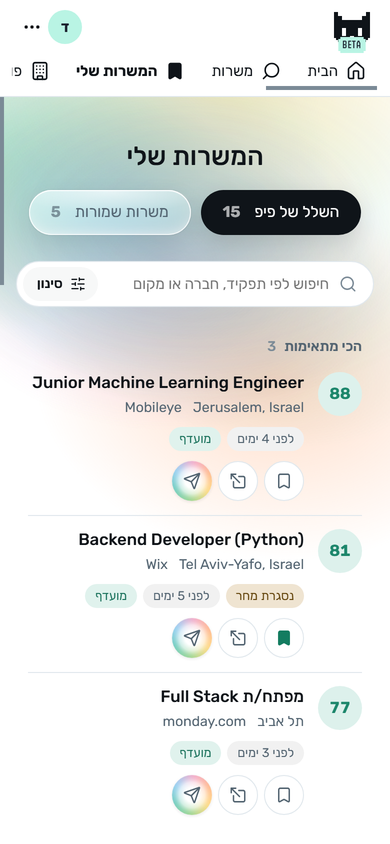
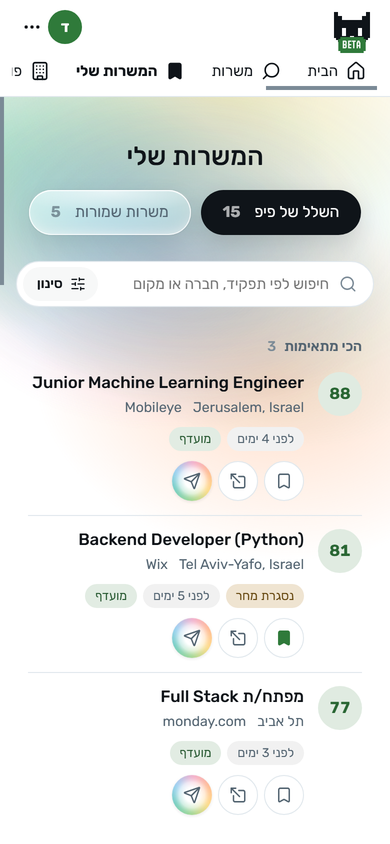
feat: update build process and enhance media assets for improved installer functionality

diff --git a/web/public/styles.css b/web/public/styles.css
@@ -8,11 +8,11 @@
 @font-face { font-family: "Handjet"; src: url("fonts/handjet-hebrew.woff2") format("woff2"); font-weight: 100 900; font-display: swap; unicode-range: U+0307-0308, U+0590-05FF, U+200C-2010, U+20AA, U+25CC, U+FB1D-FB4F; }
 @font-face { font-family: "Handjet"; src: url("fonts/handjet-latin.woff2") format("woff2"); font-weight: 100 900; font-display: swap; unicode-range: U+0000-00FF, U+0131, U+0152-0153, U+02BB-02BC, U+02C6, U+02DA, U+02DC, U+0304, U+0308, U+0329, U+2000-206F, U+20AC, U+2122, U+2191, U+2193, U+2212, U+2215, U+FEFF, U+FFFD; }
 
-/* Black and white, like a social site: white with black words by day, black with white words at night. The main
-   colour is a sea green, as Microsoft's careers site has it: mint for what is filled (the main buttons, badges, a
-   check's circle), with dark words on it; the same green deeper for links, words in colour and outlines, which
-   white has to carry (--accent); and the palest mint behind what is done (--good-soft). A full profile's ring takes
-   a deep green of its own (--full). The home page's banner keeps its own pixel art colours, last below. */
+/* Black and white, like a social site: white with black words by day, black with white words at night. The
+   main buttons, links and marks of where you are take one forest colour: forest green by day, the night
+   forest's turquoise at night (--accent is the same colour, for words and outlines). The profile page keeps
+   Microsoft's sea green, below with the profile. The home page's banner keeps its own pixel art colours, last
+   below. */
 :root {
   color-scheme: light;
   --bg: #ffffff;
@@ -25,17 +25,15 @@
   --hover: rgb(15 20 25 / 6%);
   /* A lighter one for the round choices, which a light ink tint shows less on at night. */
   --hover-soft: rgb(15 20 25 / 3%);
-  --primary: #b9f4e4;
-  --primary-ink: #1a212e;
-  --primary-edge: #8fdcc6;
-  --accent: #137c60;
-  --good-soft: #f0fefa;
-  --full: #2b715f;
+  --primary: #2f7a3a;
+  --primary-ink: #ffffff;
+  --primary-edge: #225c2b;
+  --accent: #2f7a3a;
   --soft: #f1f4f5;
   --cta: #ffc94a;
   --cta-ink: #2b2a1c;
   --cta-edge: #d6962a;
-  --good: #1fa37f;
+  --good: #2f7a3a;
   --warn: #a86b00;
   --bad: #d0302f;
   --live: #2f6fb0;
@@ -61,8 +59,8 @@
   :root:where(:not([data-theme="light"])) {
     color-scheme: dark;
     --bg: #000000; --surface: #000000; --surface-2: #16181c; --ink: #e7e9ea; --ink-2: #8b9298; --ink-3: #71767b; --line: #2f3336; --hover: rgb(231 233 234 / 10%); --hover-soft: rgb(231 233 234 / 7%);
-    --primary: #5fe3c0; --primary-ink: #03161a; --primary-edge: #3fb898; --soft: #16181c; --accent: #5fe3c0; --good-soft: #0d2620; --full: #5fc4a8;
-    --good: #3fcf9e; --warn: #f0b94b; --bad: #ff6b6b; --live: #6aaeff; --warn-soft: #1f1a0a;
+    --primary: #3fd0e0; --primary-ink: #03161a; --primary-edge: #1f8a9a; --soft: #16181c; --accent: #3fd0e0;
+    --good: #3fcf8e; --warn: #f0b94b; --bad: #ff6b6b; --live: #6aaeff; --warn-soft: #1f1a0a;
     --edge: #05061a; --frame: #262c6e; --frame-hi: #3f4fb8; --frame-lo: #1a1f52;
     --board-panel: #161a45; --board-ink: #eef0ff; --board-ink-2: #aab3e8; --hero-sky: #0b0a22;
     /* The night forest's: moss, glowing mushrooms, deep blue, violet, flowers, fireflies. */
@@ -74,8 +72,8 @@
 :root[data-theme="dark"] {
   color-scheme: dark;
   --bg: #000000; --surface: #000000; --surface-2: #16181c; --ink: #e7e9ea; --ink-2: #8b9298; --ink-3: #71767b; --line: #2f3336; --hover: rgb(231 233 234 / 10%); --hover-soft: rgb(231 233 234 / 7%);
-  --primary: #5fe3c0; --primary-ink: #03161a; --primary-edge: #3fb898; --soft: #16181c; --accent: #5fe3c0; --good-soft: #0d2620; --full: #5fc4a8;
-  --good: #3fcf9e; --warn: #f0b94b; --bad: #ff6b6b; --live: #6aaeff; --warn-soft: #1f1a0a;
+  --primary: #3fd0e0; --primary-ink: #03161a; --primary-edge: #1f8a9a; --soft: #16181c; --accent: #3fd0e0;
+  --good: #3fcf8e; --warn: #f0b94b; --bad: #ff6b6b; --live: #6aaeff; --warn-soft: #1f1a0a;
   --edge: #05061a; --frame: #262c6e; --frame-hi: #3f4fb8; --frame-lo: #1a1f52;
   --board-panel: #161a45; --board-ink: #eef0ff; --board-ink-2: #aab3e8; --hero-sky: #0b0a22;
   --sky-1: #3fcf8e; --sky-2: #3fd0e0; --sky-3: #5f6ff0; --sky-4: #b07cff; --sky-5: #ff6fc0; --sky-6: #ffd56b;
@@ -2161,7 +2159,7 @@ html.lite .where-dialog::backdrop { backdrop-filter: none; background: rgb(0 0 0
 .portal-head { display: flex; align-items: center; gap: 8px; flex-wrap: wrap; }
 .portal-name { font-weight: 600; }
 .portal-how { padding: 1px 9px; border-radius: 999px; background: var(--soft); color: var(--ink-2); font-size: 12.5px; white-space: nowrap; }
-.portal-how.search, .portal-how.read { background: var(--good-soft); color: var(--accent); }
+.portal-how.search, .portal-how.read { background: color-mix(in srgb, var(--primary) 12%, var(--surface)); color: var(--primary-edge); }
 .portal-how.web, .portal-how.channel { background: color-mix(in srgb, var(--live) 12%, var(--surface)); color: var(--live); }
 .portal-status { color: var(--ink-3); font-size: 13px; }
 .portal-actions { display: flex; align-items: center; gap: 10px; flex: none; }
@@ -3421,6 +3419,15 @@ a.ai-pill { text-decoration: none; }
 }
 
 /* ---------- the profile (views/profile.tsx) ---------- */
+
+/* The profile keeps Microsoft's sea green (Sean, 2026-11-10), while the rest of the site is forest green: mint for
+   what is filled with dark words on it, the same green deeper for words and outlines, the palest mint behind what
+   is done, and a full profile's ring in a deep green of its own. */
+.prof-page { --primary: #b9f4e4; --primary-ink: #1a212e; --primary-edge: #8fdcc6; --accent: #137c60; --good: #1fa37f; --good-soft: #f0fefa; --full: #2b715f; }
+@media (prefers-color-scheme: dark) {
+  :root:where(:not([data-theme="light"])) .prof-page { --primary: #5fe3c0; --primary-ink: #03161a; --primary-edge: #3fb898; --accent: #5fe3c0; --good: #3fcf9e; --good-soft: #0d2620; --full: #5fc4a8; }
+}
+:root[data-theme="dark"] .prof-page { --primary: #5fe3c0; --primary-ink: #03161a; --primary-edge: #3fb898; --accent: #5fe3c0; --good: #3fcf9e; --good-soft: #0d2620; --full: #5fc4a8; }
 
 /* Under the jobs' moving sky, like "My jobs": the title, and the ways to change the profile as text or by talking. */
 .page.prof-page { max-width: 1200px; padding-inline: 0; padding-top: 0; gap: 0; }

diff --git a/installer/build.ts b/installer/build.ts
@@ -1,7 +1,7 @@
 // Builds installer/out/PipSetup.exe from pip.iss. It stages the program's files into installer/stage/app as git sees
 // them, tracked or new and not ignored (so nothing in user/, and no keys, PDFs or packages), less what is personal or
 // only for working on the program: links/ (chats), tests/, site/ (the phone site, which runs elsewhere), .github/,
-// assets/ (the README's pictures) and this folder. With them go the lockfiles git ignores, so a computer installing it
+// assets/ and media/ (the READMEs' pictures), docs/ and this folder. With them go the lockfiles git ignores, so a computer installing it
 // gets the very versions of the packages tried here. Beside them goes the build's version (version.ts), which an
 // installed Pip updates itself by. Then it draws the installer's pictures (art.ts), builds the launcher (launcher.cs)
 // and runs Inno Setup's compiler. Run from the repository: bun installer/build.ts (Inno Setup 6, or its ISCC.exe as
@@ -14,7 +14,7 @@ import { VERSION_FILE, versions } from "./version";
 
 const ROOT = path.resolve(import.meta.dir, "..");
 const STAGE = path.join(import.meta.dir, "stage");
-const LEFT_OUT = ["links/", "tests/", "site/", ".github/", "assets/", "installer/", ".pytest_cache/", ".cz.toml"];
+const LEFT_OUT = ["links/", "tests/", "site/", ".github/", "assets/", "media/", "docs/", "installer/", ".pytest_cache/", ".cz.toml"];
 
 const listed = spawnSync("git", ["ls-files", "--cached", "--others", "--exclude-standard", "-z"], { cwd: ROOT, encoding: "utf8" });
 if (listed.status !== 0) throw new Error(`git ls-files: ${listed.stderr}`);
